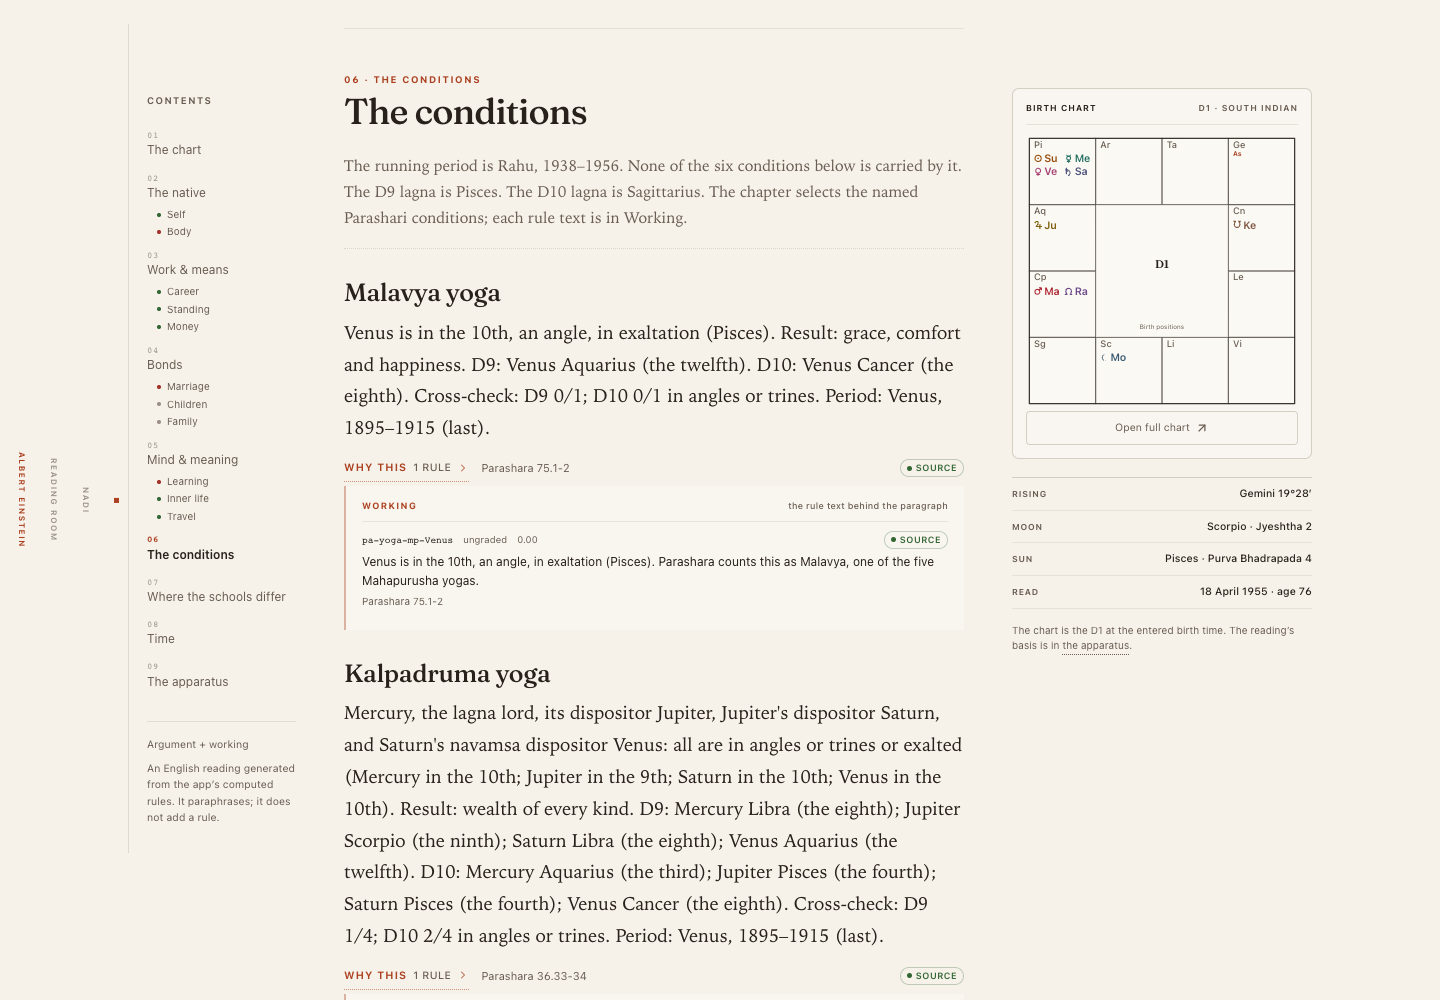
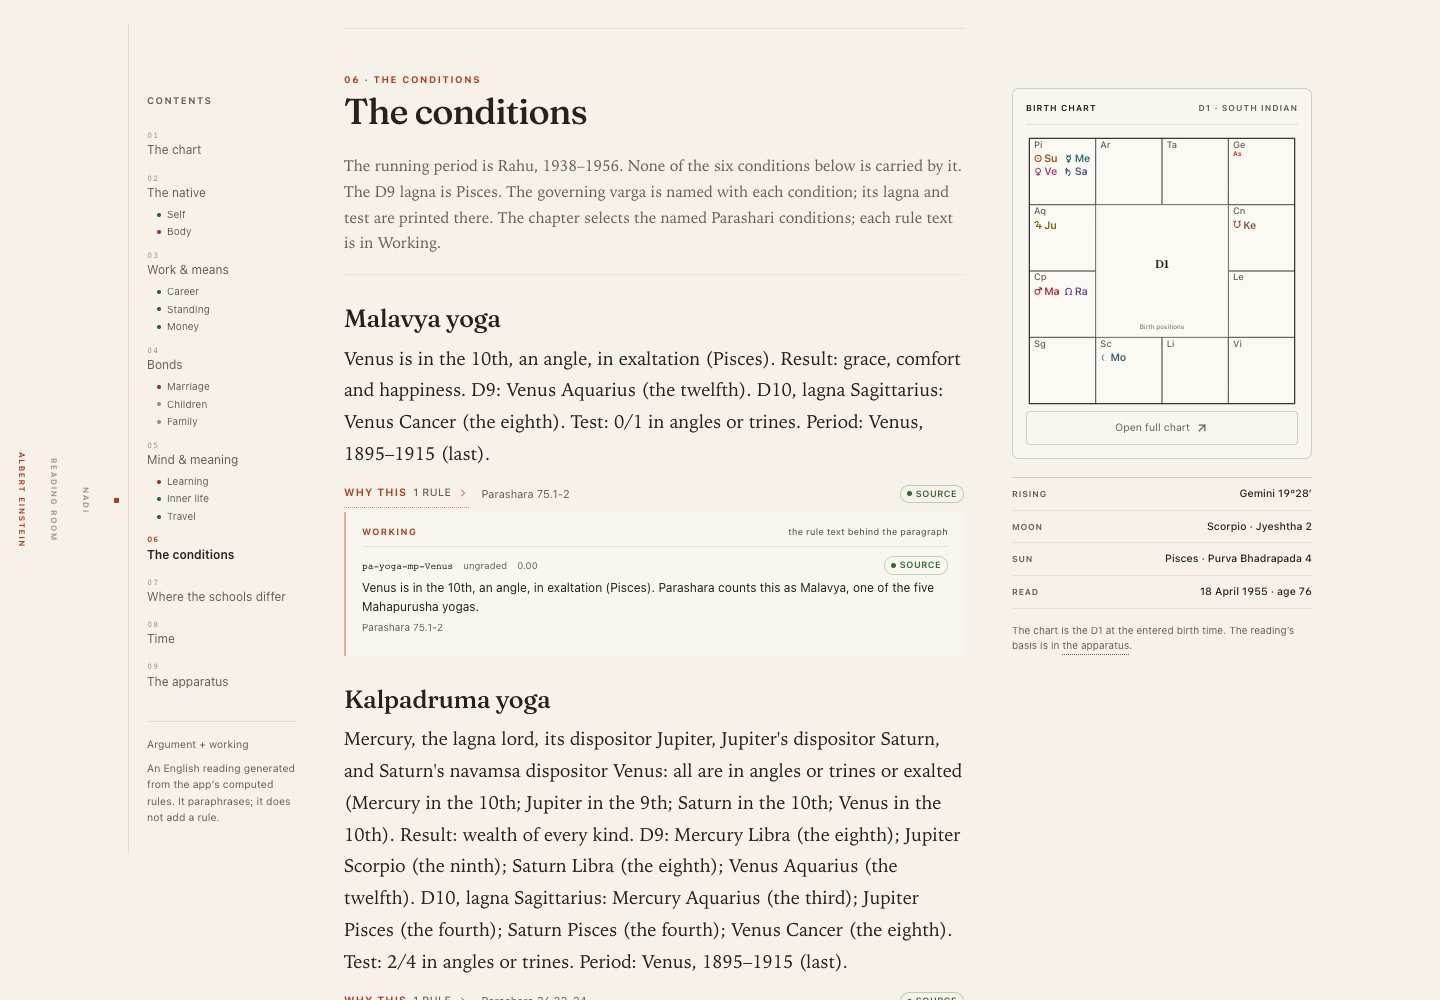
Use each condition's governing varga in the test

Changed region(s): [[0.2188, 0.279, 0.6875, 1.0], [0.25, 0.186, 0.6562, 0.248], [0.3438, 0.465, 0.375, 0.496]]

diff --git a/shared/reading-prose.ts b/shared/reading-prose.ts
@@ -88,10 +88,10 @@ export interface ReadingCondition {
   period: string;
   /** "D9: Venus Aquarius (12th); Mercury Libra (8th)." */
   d9: string;
-  /** "D10: Venus Leo (8th); Mercury Virgo (3rd)." */
-  d10: string;
-  /** "Cross-check: D9 0/1; D10 0/1 in angles or trines." */
-  crossCheck: string;
+  /** The varga that governs the condition's matter. */
+  varga: "D2" | "D4" | "D7" | "D9" | "D10" | "D24";
+  /** "D24, lagna Scorpio: Mercury Pisces (5th); Jupiter Sagittarius (2nd). Test: 1/2 in angles or trines." */
+  vargaLine: string;
   /** The first sentence of the rule and its gist. */
   text: string;
 }
@@ -1151,22 +1151,29 @@ class Writer {
     return this.vargaLine("D9", f);
   }
 
-  private conditionD10(f: ParashariFinding): string {
-    return this.vargaLine("D10", f);
+  private conditionVarga(f: ParashariFinding): "D2" | "D4" | "D7" | "D9" | "D10" | "D24" {
+    if (/Neechabhanga: Mercury/.test(f.title)) return "D24";
+    if (/Wealth-giving/.test(f.title)) return "D2";
+    if (/marriage|spouse/i.test(f.title)) return "D9";
+    if (/children/i.test(f.title)) return "D7";
+    if (/home|family/i.test(f.title)) return "D4";
+    return "D10";
   }
 
-  private conditionCrossCheck(f: ParashariFinding): string {
+  private conditionVargaLine(f: ParashariFinding, varga: "D2" | "D4" | "D7" | "D9" | "D10" | "D24"): string {
+    const lagna = this.vargas.lagna[varga];
+    const signs = new Map(this.vargas.planets.map((p) => [p.planet, p.signs[varga]]));
     const angles = new Set([1, 4, 5, 7, 9, 10]);
-    const count = (key: Extract<VargaKey, "D9" | "D10">) => {
-      const lagna = this.vargas.lagna[key];
-      const signs = new Map(this.vargas.planets.map((p) => [p.planet, p.signs[key]]));
-      return f.planets.filter((planet) => {
-        const sign = signs.get(planet);
-        return sign !== undefined && angles.has(houseFrom(lagna, sign));
-      }).length;
-    };
-    const total = f.planets.length;
-    return `Cross-check: D9 ${count("D9")}/${total}; D10 ${count("D10")}/${total} in angles or trines.`;
+    const parts = f.planets.map((planet) => {
+      const sign = signs.get(planet);
+      if (sign === undefined) return "";
+      return `${planet} ${SIGNS[sign]} (the ${ORD_WORDS[houseFrom(lagna, sign)]})`;
+    }).filter(Boolean);
+    const support = f.planets.filter((planet) => {
+      const sign = signs.get(planet);
+      return sign !== undefined && angles.has(houseFrom(lagna, sign));
+    }).length;
+    return `${varga}, lagna ${SIGNS[lagna]}: ${parts.join("; ")}. Test: ${support}/${f.planets.length} in angles or trines.`;
   }
 
   private conditionText(f: ParashariFinding): string {
@@ -1214,8 +1221,7 @@ class Writer {
         : `None of the ${count} conditions below is carried by it.`}`
       : "No Vimshottari period is running at the reading date.";
     const d9 = this.result.jaimini.navamsaLagna?.sign ? `The D9 lagna is ${this.result.jaimini.navamsaLagna.sign}.` : "";
-    const d10 = this.vargas.lagna.D10 !== undefined ? `The D10 lagna is ${SIGNS[this.vargas.lagna.D10]}.` : "";
-    return tidy(`${running} ${d9} ${d10} The chapter selects the named Parashari conditions; each rule text is in Working.`);
+    return tidy(`${running} ${d9} The governing varga is named with each condition; its lagna and test are printed there. The chapter selects the named Parashari conditions; each rule text is in Working.`);
   }
 
   conditionSection(): { section: ProseSection; conditions: ReadingCondition[] } {
@@ -1229,15 +1235,15 @@ class Writer {
       active: this.conditionActive(f),
       period: this.conditionPeriod(f),
       d9: this.conditionD9(f),
-      d10: this.conditionD10(f),
-      crossCheck: this.conditionCrossCheck(f),
+      varga: this.conditionVarga(f),
+      vargaLine: this.conditionVargaLine(f, this.conditionVarga(f)),
       text: this.conditionText(f),
     }));
     const paragraphs = findings.length
       ? findings.map((f) => ({
           id: `condition-${f.id}`,
           subhead: f.title,
-          text: tidy(`${this.conditionText(f)} ${this.conditionD9(f)} ${this.conditionD10(f)} ${this.conditionCrossCheck(f)} ${this.conditionPeriod(f)}`),
+          text: tidy(`${this.conditionText(f)} ${this.conditionD9(f)} ${this.conditionVargaLine(f, this.conditionVarga(f))} ${this.conditionPeriod(f)}`),
           evidence: [this.parashariEvidence(f)],
         }))
       : [{ id: "conditions-empty", text: "The Parashari engine reports no named yoga for this chart.", evidence: [] }];
@@ -1248,7 +1254,7 @@ class Writer {
         title: "The conditions",
         preamble: conditions.length ? this.conditionPreamble(conditions) : undefined,
         paragraphs,
-        note: `The chapter selects ${conditions.length} named conditions, not the full yoga ledger. The period test is the app's own: the running lord must be one of the condition's planets; it is not a classical dasha-activation rule. The D9/D10 cross-check counts the condition's planets in angles or trines from each varga lagna; it is an app cross-check, not a classical confirmation. Each rule text is in Why this.`,
+        note: `The chapter selects ${conditions.length} named conditions, not the full yoga ledger. The period test is the app's own: the running lord must be one of the condition's planets; it is not a classical dasha-activation rule. The governing varga is chosen by the condition's matter (career and standing D10, wealth D2, learning D24); its test counts the condition's planets in angles or trines from that varga lagna. It is an app cross-check, not a classical confirmation. Each rule text is in Why this.`,
       },
       conditions,
     };

diff --git a/scripts/reading-prose.test.ts b/scripts/reading-prose.test.ts
@@ -25,8 +25,8 @@ test("the reading has the agreed chapter shape", () => {
   assert.equal(doc.conditions.length, 6);
   assert.ok(doc.conditions.every((c) => c.period.startsWith("Period:")), "every condition states its period");
   assert.ok(doc.conditions.every((c) => c.d9.startsWith("D9:")), "every condition states its D9 positions");
-  assert.ok(doc.conditions.every((c) => c.d10.startsWith("D10:")), "every condition states its D10 positions");
-  assert.ok(doc.conditions.every((c) => c.crossCheck.startsWith("Cross-check:")), "every condition carries the angular cross-check");
+  assert.ok(doc.conditions.every((c) => c.vargaLine.startsWith(c.varga)), "every condition names its governing varga");
+  assert.ok(doc.conditions.every((c) => /Test: \d+\/\d+ in angles or trines/.test(c.vargaLine)), "every condition carries the varga test");
   assert.equal(doc.index.length, 11);
   assert.deepEqual(
     doc.index.map((e) => e.topic),

diff --git a/docs/reading-room.md b/docs/reading-room.md
@@ -36,7 +36,7 @@ The first release read five areas. V2 reads the whole life without becoming elev
 | **Work & means** | career, authority, wealth | The working life, public standing and money as separate questions. |
 | **Bonds** | marriage, children, family | The chapter where disagreement is the finding; family is read member by member. |
 | **Mind & meaning** | education, spirituality, travel | The descriptive areas: learning, inner life and distance. |
-| **The conditions** | — | Six selected Parashari yogas, their D9/D10 positions, an angular cross-check and the period that carries each. A condition ledger, not the full yoga corpus. |
+| **The conditions** | — | Six selected Parashari yogas, their D9 positions, the varga that governs each condition, and the period that carries each. A condition ledger, not the full yoga corpus. |
 | **Time** | — | The Vimshottari period, the sub-period and the slow sky, as clocks rather than events. |
 | **The schools** | — | The comparison of bases: five general topics × four schools, no vote. |
 | **The apparatus** | — | Sources, caveats, provenance, school cards, marks and citation. |
@@ -53,11 +53,22 @@ Each paragraph is a fixed ledger, not a free paragraph:
 
 1. the first sentence of the rule;
 2. `Result:` the rule's gist;
-3. `D9:` and `D10:` the navamsa and dasamsa positions of the condition's planets;
-4. `Cross-check:` how many of those planets fall in the angles or trines from each varga lagna;
+3. `D9:` the navamsa positions of the condition's planets;
+4. the **governing varga** — `D10` for career and standing, `D2` for wealth, `D24` for learning, `D7` for children, `D4` for home, `D9` for spouse and self — with its positions and a test;
 5. `Period:` the Vimshottari period that carries it — current, next, or last.
 
-The D9/D10 lines are positions, not verdicts. The cross-check is an **app convention**: it counts the condition's planets in the 1st, 4th, 5th, 7th, 9th and 10th from the varga lagna. It is not a classical varga-confirmation rule. For Einstein, Malavya is 0/1 in both vargas, while the Kendra-trikona exchange is 2/2 in D10; the chapter prints both counts rather than smoothing them. The period line is current when the running lord is one of the condition's planets; for a recorded death it uses the last period before the reading date, never a future period to imply posthumous activation. That activation test is the **app's own simplification**, not a classical dasha-activation rule; the condition is a named yoga, and the period is a reading aid. For the Einstein chart the running Rahu period carries none of the six, and the chapter says so. The full rule text is in Why this; the chapter is not the complete yoga ledger.
+The governing varga is the correction to the first cross-check. The test counts the condition's planets in the 1st, 4th, 5th, 7th, 9th and 10th from that varga lagna, and it is an **app convention**, not a classical varga-confirmation rule. The positions are printed so the reader can disagree. For Einstein:
+
+| Condition | Governing varga | Test |
+|---|---|---|
+| Malavya | D10 | 0/1 |
+| Kalpadruma | D10 | 2/4 |
+| Neechabhanga: Mercury | D24 | 1/2 |
+| Neechabhanga: Moon | D10 | 0/3 |
+| Kendra-trikona raja | D10 | 2/2 |
+| Wealth-giving periods | D2 | 3/4 |
+
+The wealth condition is the clearest argument for the layer: under a generic D10 count it was 1/4; in its own D2 it is 3/4. The chapter prints the governing count, not the flattering one. The period line is current when the running lord is one of the condition's planets; for a recorded death it uses the last period before the reading date, never a future period to imply posthumous activation. That activation test is the **app's own simplification**, not a classical dasha-activation rule. For the Einstein chart the running Rahu period carries none of the six, and the chapter says so. The full rule text is in Why this; the chapter is not the complete yoga ledger.
 
 
 The **chapter preamble** is now the technical frame in the reading: the lagna and relevant houses, their lords and occupants, degrees, dignities and strength, the Jaimini karakas (with D9), and the KP cusp and sub-lord. It assumes the reader knows **lagna, bhava, lord, karaka, D9, dasha, bhukti, pratyantar, bindus and cusp sub-lord**. It does not gloss them. The per-area Parashari frame remains in Working.
@@ -119,7 +130,7 @@ For the Einstein chart the reading is about 2,350 words and twelve minutes, with
 - **The marginal spine.** At wide widths, a vertical folio runs down the outer margin — the room's signature, not an app chrome.
 - **In brief and the contents rail.** The summary is a run-in epigraph; the eleven areas are nested in the contents rail, not in a card grid. The rail is also the chapter navigation.
 - **The preamble and the frames.** Each life chapter opens with the technical preamble; every area still carries its Parashari house frame in Working, and each chapter carries the Jaimini and KP lines.
-- **The conditions.** Six named Parashari yogas are selected, each with the first sentence of its rule, its result, its D9 and D10 positions, an angular cross-check and the Vimshottari period that carries it. The running Rahu period carries none of the six; the chapter says so rather than inventing an activation. The full rule text is in Why this.
+- **The conditions.** Six named Parashari yogas are selected, each with the first sentence of its rule, its result, its D9 positions, the varga that governs its matter with a test, and the Vimshottari period that carries it. The running Rahu period carries none of the six; the chapter says so rather than inventing an activation. The full rule text is in Why this.
 - **Why this.** Every paragraph with evidence carries the mark types and a button that opens the exact rule text, source and grade.
 - **The comparison.** Five general topics × four schools. Each cell is the school's own verdict and the object it judged; the row carries the combined reading. No vote is counted. Life span is a separate, gated topic and is not folded in.
 - **Time.** The Vimshottari period, the sub-period, the third-level period, and the slow sky, as a structured timeline, not forty pages of paryanthar prose.
@@ -169,7 +180,7 @@ npx tsx --test scripts/reading-prose.test.ts
 npm run build
 ```
 
-The three prose tests check the chapter shape, the four preambles and codas, the six conditions and their period, D9/D10 and cross-check fields, all eleven area paragraphs and their frames, the five-line summary and the eleven-area contents, determinism across two compositions, the lexicon lint (no "clearest line", no universal "The line is", small allowances for repeated tone words), unique area claims, and the presence of source, provisional and calculation marks.
+The three prose tests check the chapter shape, the four preambles and codas, the six conditions and their period, D9 and governing-varga fields, all eleven area paragraphs and their frames, the five-line summary and the eleven-area contents, determinism across two compositions, the lexicon lint (no "clearest line", no universal "The line is", small allowances for repeated tone words), unique area claims, and the presence of source, provisional and calculation marks.
 
 A teardown of a mainstream 108-page Parashari report, and what to borrow or avoid, is in [mainstream-reference.md](mainstream-reference.md).
 

diff --git a/README.md b/README.md
@@ -6,7 +6,7 @@ A published snapshot runs at [astroengine.pplx.app](https://astroengine.pplx.app
 
 ## Reading room (design fork)
 
-This branch adds an editorial reading surface at `#/chart/:id/room`, with **Reading / Working / Critical** layers, **four life chapters, a selected conditions chapter, and Time**, every area nested in the contents rail, a run-in **In brief**, a practitioner-register prose layer over the existing readings (technical preambles, chapter codas, fixed rhetorical structures with a tested lexicon, named conditions with D9/D10 cross-checks and period activation, about 2,350 words for the Einstein chart), a school-aware chart card, the evidence drawer, a comparison-basis table, a timeline, provenance and citation. The workbench stays available, but the room is the primary entry: a newly cast or saved chart opens the room, the chart header makes **Reading room** primary, and the guided reader links to the full edition.
+This branch adds an editorial reading surface at `#/chart/:id/room`, with **Reading / Working / Critical** layers, **four life chapters, a selected conditions chapter, and Time**, every area nested in the contents rail, a run-in **In brief**, a practitioner-register prose layer over the existing readings (technical preambles, chapter codas, fixed rhetorical structures with a tested lexicon, named conditions with D9 and governing-varga tests, plus period activation, about 2,350 words for the Einstein chart), a school-aware chart card, the evidence drawer, a comparison-basis table, a timeline, provenance and citation. The workbench stays available, but the room is the primary entry: a newly cast or saved chart opens the room, the chart header makes **Reading room** primary, and the guided reader links to the full edition.
 
 The prose layer lives in [`shared/reading-prose.ts`](shared/reading-prose.ts); the page is [`client/src/pages/reading-room.tsx`](client/src/pages/reading-room.tsx); the design notes and screenshots are in [`docs/reading-room.md`](docs/reading-room.md). It adds no astrology and no LLM: it uses the app's reviewed Nadi prose and school chart contexts, and keeps the exact rule text, source and grade one click away.
 

diff --git a/docs/prose-lexicon.md b/docs/prose-lexicon.md
@@ -55,8 +55,8 @@ The conditions chapter is not written with the area structures. It uses one fixe
 <first sentence of the rule>
 Result: <the rule's gist>.
 D9: <planet sign (house from D9 lagna); ...>.
-D10: <planet sign (house from D10 lagna); ...>.
-Cross-check: D9 <count>/<total>; D10 <count>/<total> in angles or trines.
+<D10 | D2 | D24>, lagna <sign>: <planet sign (house from that varga lagna); ...>.
+Test: <count>/<total> in angles or trines.
 Period: <lord, years> (current | next | last).
 ```
 
